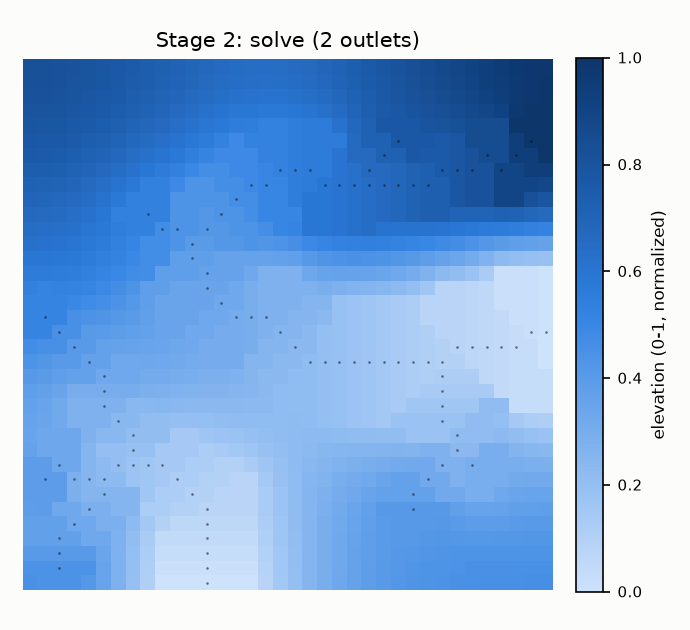
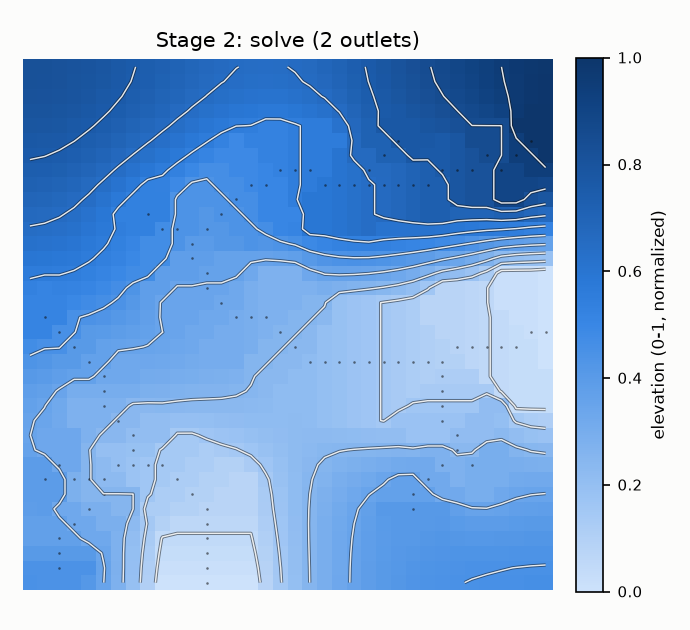
docs: add contour lines to stage 2/3 elevation figures
Tried it despite the small 36x36 grid; the contours come out angular
but clearly readable, and show the valley's V pointing upstream. Kept.

diff --git a/docs/USAGE.md b/docs/USAGE.md
@@ -74,8 +74,14 @@ SEQ_BLUE = LinearSegmentedColormap.from_list("seq_blue", [
 ])
 
 def plot_elev(u, net, title):
+    import matplotlib.patheffects as pe
     fig, ax = plt.subplots(figsize=(4.6, 4.2))
     im = ax.imshow(u, cmap=SEQ_BLUE, interpolation="nearest")
+    # 等高線: 36x36 でも角ばりはするが十分読める(2026-09-27 に確認)
+    cs = ax.contour(u, levels=np.linspace(0.05, 0.95, 10), colors="#fcfcfb",
+                     linewidths=0.7, alpha=0.9)
+    cs.set_path_effects([pe.Stroke(linewidth=1.6, foreground="#0b0b0b",
+                                    alpha=0.5), pe.Normal()])  # 濃い縁取りで視認性を上げる
     ry, rx = np.where(net)
     ax.scatter(rx, ry, s=1.5, c="#0b0b0b", alpha=0.55, linewidths=0)  # 川を重ねる
     ax.set_xticks([]); ax.set_yticks([])
@@ -85,6 +91,8 @@ def plot_elev(u, net, title):
 ```
 
 配色は `dataviz` スキル（バリデータ `validate_palette.js`）で検証済みのもの: 流域の色分け（青 `#2a78d6` / 橙 `#eb6834`）は色覚多様性のもとでも判別できる組み合わせとして確認した。標高は単一色（青）の連続カラーマップにしている。
+
+**等高線について（2026-09-27 追記）。** 36×36 という小さい格子でも、等高線を引いてみたところ十分読み取れたので、以下の第2段・第3段の標高図にはすべて等高線を追加した。谷（川）に向かって等高線が V字に食い込む、実際の地形図と同じ読み方ができる。
 
 ---
 
@@ -191,7 +199,7 @@ net, lab = gen_headward(np.random.default_rng(3), n=36, labels=True)
 u = solve(net, outlets=[(34, 18)], labels=lab)   # n=36 の既定の出口は (n-2, n//2) = (34, 18)
 ```
 
-![Stage 2, one outlet: a smooth blue elevation surface, lightest near the outlet at the bottom and darkest at the far edges, with small dark dots marking the channel.](images/stage2_single.png)
+![Stage 2, one outlet: a smooth blue elevation surface with contour lines, lightest near the outlet at the bottom and darkest at the far edges, the contours forming a V that points upstream along the channel.](images/stage2_single.png)
 
 実際の値（`u.min()` = 0.0、`u.max()` = 0.9999999999991799、NaN 無し）。出口 `(34, 18)` の周辺が最も低く（明るい色）、地図の縁に近づくほど高くなる（濃い色）。川が1本しかない場合は、分水界（等距離の帯）が生まれる場所が無く、面全体がひとつの丘としてなだらかに盛り上がる。
 
@@ -207,7 +215,7 @@ net, lab = gen_headward(np.random.default_rng(5), n=36, roots=roots, labels=True
 u = solve(net, outlets=[(r, c) for (r, c, _a) in roots], labels=lab)
 ```
 
-![Stage 2, two outlets: a blue elevation surface with two light troughs following the two channels, and a smooth ridge rising exactly halfway between them.](images/stage2_two.png)
+![Stage 2, two outlets: a blue elevation surface with contour lines, two light troughs following the two channels, and a smooth ridge rising exactly halfway between them.](images/stage2_two.png)
 
 実際の値（`u.min()` = 0.0、`u.max()` = 0.9999999999990007、NaN 無し）。出口の座標（`(35,12)` と `(18,35)`）の周辺で値が最も低くなっており、外側に向かって高くなっている。色の変化はなめらかで、丘の頂上が個々の川から等距離の場所に自然に現れている（ドラフトにあった「尾根は描いていない」という主張どおりの挙動）。
 
@@ -253,12 +261,12 @@ u = solve(net, outlets=[(34, 18)], labels=lab)
 u_finished = finish_micro(u, net, rng)   # rng は gen_headward と同じものを渡す
 ```
 
-![Stage 3, one outlet: the same blue elevation surface as stage 2, now with fine texture cut into the hillslopes.](images/stage3_single.png)
+![Stage 3, one outlet: the same blue elevation surface as stage 2 with contour lines, now with fine texture cut into the hillslopes.](images/stage3_single.png)
 ![Stage 3 minus stage 2, one outlet: mostly blue (lower, carved), with a few small red patches where the surface ended up slightly higher than before.](images/stage3_single_diff.png)
 
 同じことを、出口2つの地形にも行った。
 
-![Stage 3, two outlets: the two-outlet elevation surface from stage 2, now with fine texture cut into both hillslopes.](images/stage3_two.png)
+![Stage 3, two outlets: the two-outlet elevation surface from stage 2 with contour lines, now with fine texture cut into both hillslopes.](images/stage3_two.png)
 ![Stage 3 minus stage 2, two outlets: mostly blue (lower, carved), with a few small red patches where the surface ended up slightly higher than before.](images/stage3_two_diff.png)
 
 実際の値（2026-09-27、`finish_micro` の2回目の修正後に再実験）:
